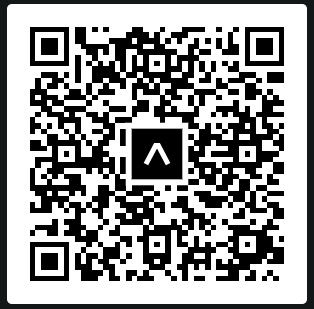
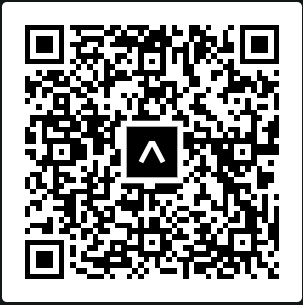
update readme.

diff --git a/README.md b/README.md
@@ -10,6 +10,7 @@ Community es una aplicación multiplataforma desarrollada en `React Native` con 
 <ol>
   <li>Demo</li>
   <li>Entorno de desarrollo</a</li>
+  <li>Pruebas</li>
   <li>Uso</li>
   <li>Licencia</li>
   <li>Contacto</li>
@@ -29,7 +30,7 @@ Para acceder al demo se requiere un terminal móvil y tener instalada la aplicac
 
 ### Versión iOS
 
-Accede a `exp://u.expo.dev/update/c1665fa1-e223-480d-a297-46ceb450bf67` o escanea el siguiente código.
+Accede a `exp://u.expo.dev/update/641c63fc-019e-4453-a0b7-4c946a0fc456` o escanea el siguiente código.
 
 <p style = 'text-align:center;'>
   <img src="./docs/demo-ios.png" alt="demo-ios-qr-code" height="200px">
@@ -37,7 +38,7 @@ Accede a `exp://u.expo.dev/update/c1665fa1-e223-480d-a297-46ceb450bf67` o escane
 
 ### Versión Android
 
-Accede a `exp://u.expo.dev/update/139b0251-5f02-480e-afbe-1d1234ce3e76` o escanea el siguiente código.
+Accede a `exp://u.expo.dev/update/619ac609-6070-44d3-8f1f-6e6652e476c7` o escanea el siguiente código.
 
 <p style = 'text-align:center;'>
   <img src="./docs/demo-android.png" alt="demo-ios-qr-code" height="200px">
@@ -95,6 +96,21 @@ En el directorio del proyecto `/frontend/app`
 ````
 npx expo start
 ````
+## Pruebas.
+
+Con el objetivo de proporcionar un software de mayor calidad y estable, se ha decidido utilizar `jest` como herramienta de test.
+
+Para comprobar el estado de las pruebas debemos ejecutar el siguiente comando en el directorio `/frontend/app`:
+
+````
+npm test
+````
+
+Y obtenendremos un resultado como de la siguiente imagen.
+
+<p style = 'text-align:center;'>
+  <img src="./docs/tests.png" alt="tests con jest" height="200px">
+</p>
 
 ## Uso.
 
